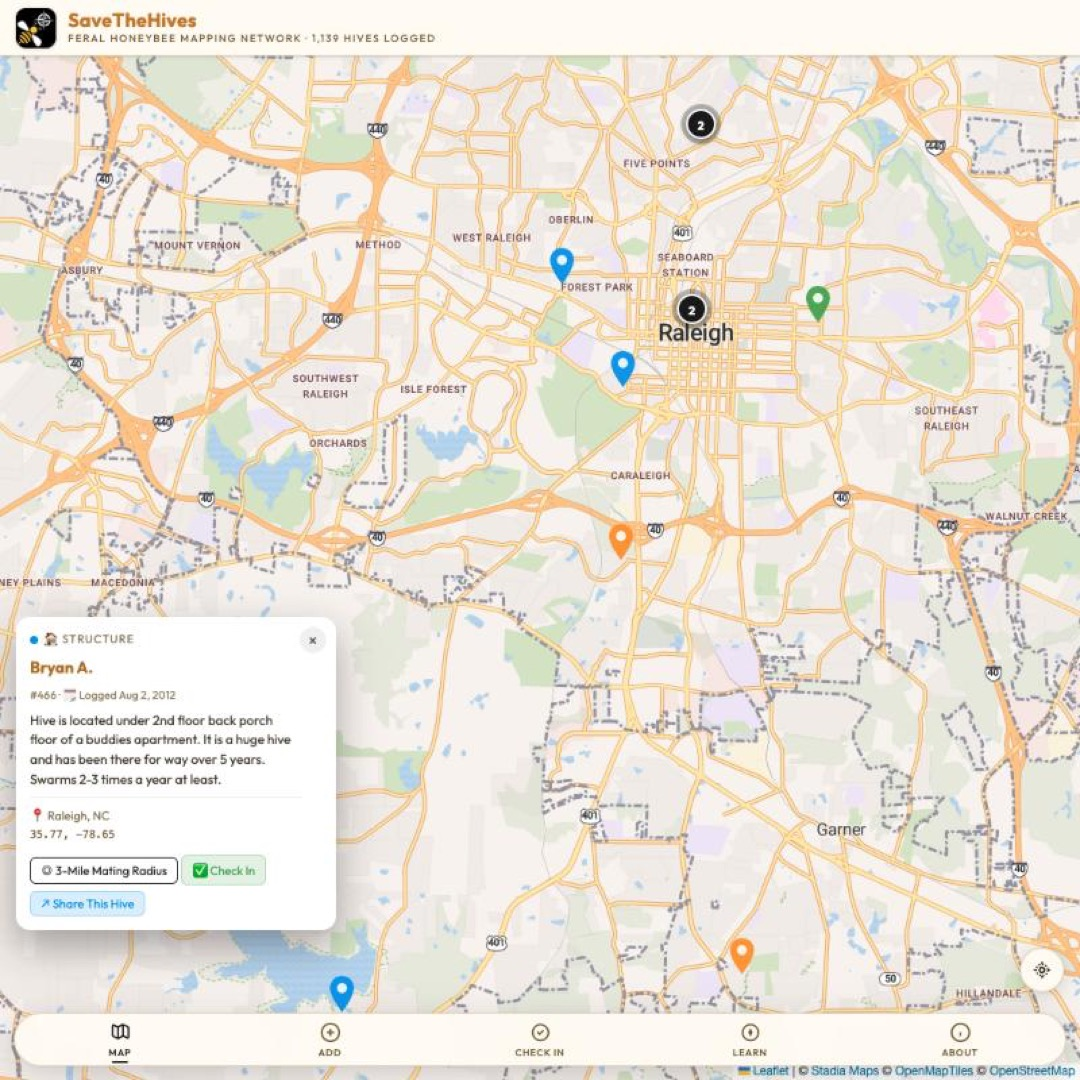
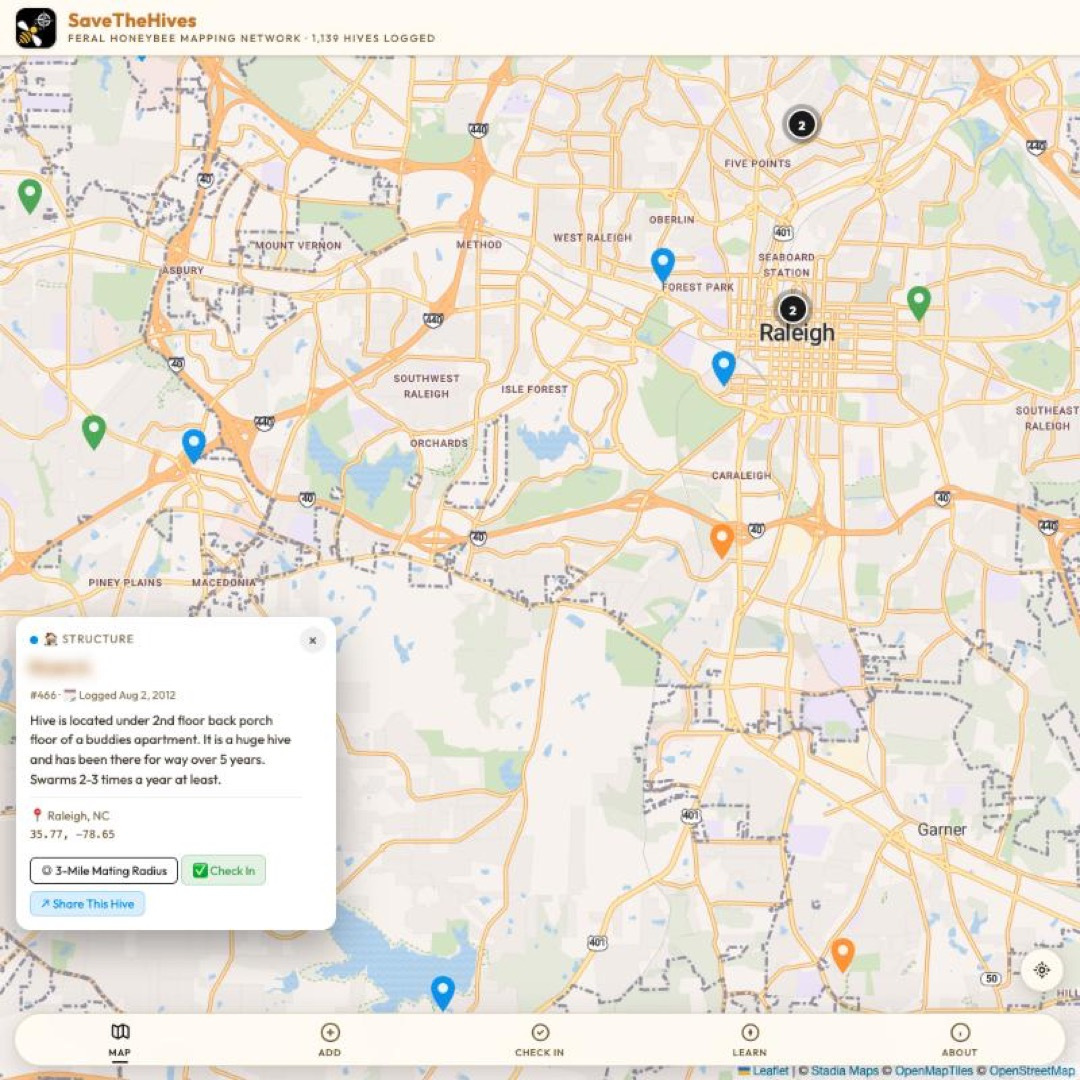
Add location-denied help/retry, blur all submitter names in marketing shots, capture Learn/About
Location: "location access denied" used to be a dead-end toast. Browsers
remember a per-site denial and won't re-prompt until the person changes
it themselves, so there was no way forward without knowing where that
setting lives. Added getLocationHelpSteps() (platform-detected: iOS
Safari, iOS home-screen install, Mac Safari, Mac Chrome, generic
fallback) behind a new "How to enable" button, plus a "Try Again" button
that re-requests permission directly — covers the case where someone
already fixed the setting and came back. Wired into both locateMe() and
openValidate()/Check-In. New #location-help-modal in index.html.

Marketing screenshots: blurred the submitter name in map-near-you (Jan
Weems NCMNS) and map-story-bryan (Bryan A.) — same CSS-blur technique
already used for Patrick Schlemmer's shot — per Ronnie's standing request
to avoid showing any real name. Unblurred versions archived.

Also captured 3 new screens: learn-hub.jpg (Learn tab's hub), about-hub.jpg
(About tab's hub), about-mission.jpg (About → Mission & research). Flagged
in ASSET_INDEX.md: the live Mission & research text lists
hello@savethehives.org as the researcher contact, which was confirmed
unreliable for outreach back on 2026-08-14 — not changed here, out of
scope for this pass.

diff --git a/app/app.js b/app/app.js
@@ -1313,6 +1313,103 @@ function flyToHive(id) {
 // ═══════════════════════════════════════
 // LOCATION
 // ═══════════════════════════════════════
+// 2026-10-14 (Ronnie): "location access denied" used to be a dead end — a
+// toast and nothing else. Browsers remember a denial per-site and won't
+// prompt again until the person changes it themselves in their own
+// settings, so the fix has to tell them exactly where that setting lives.
+// getLocationHelpSteps() picks the right instructions for iOS Safari, an
+// iOS home-screen install, Mac Safari, and Mac Chrome (a generic fallback
+// covers everything else — Android/other desktop browsers).
+function getLocationHelpSteps() {
+  const ua = navigator.userAgent;
+  const isIOS = /iPhone|iPad|iPod/.test(ua);
+  const isStandalone = window.navigator.standalone === true ||
+    window.matchMedia('(display-mode: standalone)').matches;
+  const isMac = /Macintosh/.test(ua) && !isIOS;
+  const isChrome = /Chrome/.test(ua) && !/Edg|OPR/.test(ua);
+  const isSafari = /Safari/.test(ua) && !isChrome;
+
+  if (isIOS && isStandalone) {
+    return `<b>On your iPhone/iPad (saved to your Home Screen):</b><br>
+      Settings → Privacy &amp; Security → Location Services → find
+      <b>SaveTheHives</b> in the list → set it to <b>While Using the App</b>.
+      <br><br>Also make sure Location Services is switched on at the top of
+      that screen.`;
+  }
+  if (isIOS) {
+    return `<b>On your iPhone/iPad:</b><br>
+      Tap the <b>"Aa"</b> icon at the left of the address bar →
+      <b>Website Settings</b> → set <b>Location</b> to <b>Allow</b>, then
+      reload this page.`;
+  }
+  if (isMac && isSafari) {
+    return `<b>On your Mac (Safari):</b><br>
+      Safari menu → <b>Settings</b> → <b>Websites</b> tab → <b>Location</b>
+      → set savethehives.org to <b>Allow</b>.<br><br>Also check
+      System Settings → Privacy &amp; Security → Location Services is on,
+      with Safari checked.`;
+  }
+  if (isMac && isChrome) {
+    return `<b>On your Mac (Chrome):</b><br>
+      Click the lock icon next to the address bar → <b>Site settings</b> →
+      set <b>Location</b> to <b>Allow</b>, then reload.<br><br>Also check
+      System Settings → Privacy &amp; Security → Location Services is on,
+      with Chrome checked.`;
+  }
+  return `Location access for this site is turned off in your browser.
+    Look for a location or lock icon near the address bar, open its site
+    settings, and set Location to <b>Allow</b> — then reload this page.`;
+}
+
+let _locationRetryFn = null;
+function openLocationHelp(retryFn) {
+  _locationRetryFn = retryFn || null;
+  document.getElementById('location-help-steps').innerHTML = getLocationHelpSteps();
+  document.getElementById('location-help-modal').classList.add('open');
+}
+function closeLocationHelp() {
+  document.getElementById('location-help-modal').classList.remove('open');
+}
+function retryLocationFromHelp() {
+  closeLocationHelp();
+  if (_locationRetryFn) _locationRetryFn();
+}
+
+// Two-action toast (plain showToastWithRetry only supports one button) —
+// "How to enable" opens the platform-specific modal above, "Try Again"
+// just re-requests permission directly (covers the person who already
+// fixed the setting in another tab and came back).
+function showLocationDeniedToast(retryFn) {
+  const t = document.getElementById('toast');
+  t.textContent = '';
+  const span = document.createElement('span');
+  span.textContent = 'Location access is off for this site.';
+  const helpBtn = document.createElement('button');
+  helpBtn.type = 'button';
+  helpBtn.textContent = 'How to enable';
+  helpBtn.className = 'toast-retry-btn';
+  helpBtn.onclick = () => {
+    clearTimeout(toastTimer);
+    t.classList.remove('show', 'toast-has-retry');
+    openLocationHelp(retryFn);
+  };
+  const retryBtn = document.createElement('button');
+  retryBtn.type = 'button';
+  retryBtn.textContent = 'Try Again';
+  retryBtn.className = 'toast-retry-btn';
+  retryBtn.onclick = () => {
+    clearTimeout(toastTimer);
+    t.classList.remove('show', 'toast-has-retry');
+    retryFn();
+  };
+  t.appendChild(span);
+  t.appendChild(helpBtn);
+  t.appendChild(retryBtn);
+  t.classList.add('show', 'toast-has-retry');
+  clearTimeout(toastTimer);
+  toastTimer = setTimeout(() => t.classList.remove('show', 'toast-has-retry'), 10000);
+}
+
 function locateMe() {
   if (!navigator.geolocation) { showToast('GPS not available on this device'); return; }
   showToast('Getting location...');
@@ -1321,7 +1418,13 @@ function locateMe() {
       map.setView([pos.coords.latitude, pos.coords.longitude], 12);
       showToast('📍 Centered on your location');
     },
-    () => showToast('GPS access denied — search by ZIP instead'),
+    err => {
+      if (err && err.code === err.PERMISSION_DENIED) {
+        showLocationDeniedToast(() => locateMe());
+      } else {
+        showToast('GPS unavailable — search by ZIP instead');
+      }
+    },
     { timeout: 8000 }
   );
 }
@@ -1370,9 +1473,13 @@ function openValidate() {
   }
   navigator.geolocation.getCurrentPosition(
     pos => runValidateFilter(pos.coords.latitude, pos.coords.longitude),
-    () => {
-      showToast('Location access denied — showing hives near the current map view instead');
+    err => {
       runValidateFilter(map.getCenter().lat, map.getCenter().lng);
+      if (err && err.code === err.PERMISSION_DENIED) {
+        showLocationDeniedToast(() => openValidate());
+      } else {
+        showToast('Location unavailable — showing hives near the current map view instead');
+      }
     },
     { timeout: 8000 }
   );

diff --git a/app/index.html b/app/index.html
@@ -1209,6 +1209,27 @@
   </div>
 </div>
 
+<!-- ── LOCATION HELP MODAL (2026-10-14) ── reuses .modal-overlay/.modal-sheet.
+     Content is filled in by getLocationHelpSteps() (app.js), which picks
+     platform-specific instructions (iOS Safari, iOS home-screen install,
+     Mac Safari, Mac Chrome, generic fallback) since the right setting to
+     change lives in a different place on each. -->
+<div class="modal-overlay" id="location-help-modal" onclick="closeModal(event,'location-help-modal')">
+  <div class="modal-sheet">
+    <div class="modal-handle"></div>
+    <div class="modal-title">📍 Turn On Location</div>
+    <div id="location-help-steps" style="font-size:0.85rem;color:var(--text-muted);line-height:1.6;margin-bottom:14px;"></div>
+    <div class="modal-sticky-footer">
+      <button class="btn" style="width:100%;padding:12px;font-size:1rem;" onclick="retryLocationFromHelp()">
+        Try Again
+      </button>
+      <button class="btn btn-outline" style="width:100%;padding:12px;font-size:1rem;" onclick="closeLocationHelp()">
+        Close
+      </button>
+    </div>
+  </div>
+</div>
+
 <!-- Filter drawer (v2.3) removed 2026-10-11 — once the Hive Type chips
      moved into the always-visible #type-filter-bar, this popup only had
      two things left (notes search, radius toggle), both now folded into

diff --git a/app/sw.js b/app/sw.js
@@ -4,7 +4,7 @@
 // Bump CACHE_VERSION on any deploy that changes a cached file (styles.css,
 // app.js, pathfinder.js, icons, images, etc.) so returning visitors pick up
 // the new version instead of continuing to serve the old cached one.
-const CACHE_VERSION = 'v2.14.3'; // Fixed hive-detail flyTo centering the marker directly under its own panel (app.js, 2026-10-14) — bumping per the standing rule above.
+const CACHE_VERSION = 'v2.14.4'; // Added location-denied help modal + retry action (app.js/index.html, 2026-10-14) — bumping per the standing rule above.
 const SHELL_CACHE = `savethehives-shell-${CACHE_VERSION}`;
 const TILE_CACHE = `savethehives-tiles-${CACHE_VERSION}`;
 const TILE_CACHE_MAX_ENTRIES = 200;

diff --git a/ASSET_INDEX.md b/ASSET_INDEX.md
@@ -56,8 +56,11 @@ These all stay exactly where they are. They also double as Facebook post images 
 | File (new path) | What it is | FB crop | Last used in FB post |
 |---|---|---|---|
 | `marketing/screenshots/map-overview.jpg` | Post-redesign (Oct 11 2026) map hero: new OSM Bright basemap, white filter chips, search bar, black clusters, continental zoom | `marketing/facebook/map-overview_fb-square-1080x1080.jpg` / `_fb-portrait-1080x1350.jpg` | Not yet used — captured Oct 14 2026 |
-| `marketing/screenshots/map-near-you.jpg` | The REAL "Check In" flow, not a staged map view: the "N hives within about an hour of you" banner, the dashed ~50-mile radius, and the nearest hive's story auto-opened (#467, Jan Weems NCMNS — a walnut-tree hive tied to the NC Museum of Natural Sciences). Replaces an earlier staged version (archived) once the overzoom bug below was fixed | `marketing/facebook/map-near-you_fb-square-1080x1080.jpg` / `_fb-portrait-1080x1350.jpg` | Not yet used — recaptured Oct 14 2026 |
-| `marketing/screenshots/map-story-bryan.jpg` | A single real hive's detail panel open (#466, Bryan A., Raleigh NC — huge hive under a back porch, swarms 2-3x/year) — narrative/story framing instead of a flat pin field. Replaces the earlier Charles E. Wallace version (archived — its description mentioned a beekeeper trying to remove the hive, which Ronnie didn't want to lead with) | `marketing/facebook/map-story-bryan_fb-square-1080x1080.jpg` / `_fb-portrait-1080x1350.jpg` | Not yet used — recaptured Oct 14 2026 |
+| `marketing/screenshots/map-near-you.jpg` | The REAL "Check In" flow, not a staged map view: the "N hives within about an hour of you" banner, the dashed ~50-mile radius, and the nearest hive's story auto-opened (#467, Jan Weems NCMNS — a walnut-tree hive tied to the NC Museum of Natural Sciences). Submitter name CSS-blurred (Oct 14 2026, standing privacy rule — see below) | `marketing/facebook/map-near-you_fb-square-1080x1080.jpg` / `_fb-portrait-1080x1350.jpg` | Not yet used — recaptured Oct 14 2026 |
+| `marketing/screenshots/map-story-bryan.jpg` | A single real hive's detail panel open (#466, Bryan A., Raleigh NC — huge hive under a back porch, swarms 2-3x/year) — narrative/story framing instead of a flat pin field. Submitter name CSS-blurred (Oct 14 2026, standing privacy rule — see below) | `marketing/facebook/map-story-bryan_fb-square-1080x1080.jpg` / `_fb-portrait-1080x1350.jpg` | Not yet used — recaptured Oct 14 2026 |
+| `marketing/screenshots/learn-hub.jpg` | The Learn tab's hub screen — hero illustration, "Could there be a wild bee colony within a mile of you right now?", the 4 audience-path cards, start of the module list | `marketing/facebook/learn-hub_fb-square-1080x1080.jpg` / `_fb-portrait-1080x1350.jpg` | Not yet used — captured Oct 14 2026 |
+| `marketing/screenshots/about-hub.jpg` | The About tab's hub screen — App/Map reference/Community/About the project card groups | `marketing/facebook/about-hub_fb-square-1080x1080.jpg` / `_fb-portrait-1080x1350.jpg` | Not yet used — captured Oct 14 2026 |
+| `marketing/screenshots/about-mission.jpg` | About → Mission & research sub-panel — the project's own mission statement, "Genetic Goldmine" framing, Dr. David Tarpy credibility line. **Note: this live page text lists `hello@savethehives.org` as the researcher contact — flagged to Ronnie, since that address was confirmed Aug 14 2026 as unreliable for outreach purposes; not changed here, outside this capture's scope** | `marketing/facebook/about-mission_fb-square-1080x1080.jpg` / `_fb-portrait-1080x1350.jpg` | Not yet used — captured Oct 14 2026 |
 | `marketing/screenshots/map-story-patrick.jpg` | A second hive-story shot (#19, San Francisco Zoo — 10+ year colony in the Pachyderm building's hollow wall, Active status, recent check-in shown). Submitter name (Patrick Schlemmer) is CSS-blurred in the screenshot at Ronnie's request | `marketing/facebook/map-story-patrick_fb-square-1080x1080.jpg` / `_fb-portrait-1080x1350.jpg` | Not yet used — recaptured Oct 14 2026 |
 | `marketing/screenshots/map-mating-radius.jpg` | Mating-radius circles toggled on across ~12 Triangle-area hives, overlapping rings — visual for the Genetic Goldmine/connectivity science angle | `marketing/facebook/map-mating-radius_fb-square-1080x1080.jpg` / `_fb-portrait-1080x1350.jpg` | Not yet used — captured Oct 14 2026 |
 | `marketing/screenshots/map-filter-live-tree.jpg` | Live Tree filter chip active (green, selected state), reduced pin set + live count — demonstrates the new multi-select filter UI | `marketing/facebook/map-filter-live-tree_fb-square-1080x1080.jpg` (square only) | Not yet used — captured Oct 14 2026 |
@@ -88,6 +91,9 @@ Every asset below is a pre-cropped square (1080x1080) + portrait (1080x1350) pai
 | `map-overview.jpg` | `map-overview_fb-*` | Not yet used |
 | `map-near-you.jpg` | `map-near-you_fb-*` | Not yet used |
 | `map-story-bryan.jpg` | `map-story-bryan_fb-*` | Not yet used |
+| `learn-hub.jpg` | `learn-hub_fb-*` | Not yet used |
+| `about-hub.jpg` | `about-hub_fb-*` | Not yet used |
+| `about-mission.jpg` | `about-mission_fb-*` | Not yet used |
 | `map-story-patrick.jpg` | `map-story-patrick_fb-*` | Not yet used |
 | `map-mating-radius.jpg` | `map-mating-radius_fb-*` | Not yet used |
 | `map-filter-live-tree.jpg` | `map-filter-live-tree_fb-square-1080x1080.jpg` only | Not yet used |
@@ -111,6 +117,7 @@ replaced by the `map-*` rows above:
 | `map-near-you-synthetic.jpg` / `_fb-square-1080x1080.jpg` / `_fb-portrait-1080x1350.jpg` | First "near you" shot — a manually staged map.setView() at the Triangle, no real UI flow. Archived Oct 14 2026 same day as capture, replaced by a screenshot of the actual Check-In/Validate flow once its overzoom bug (see `app/app.js` `showHiveNotePanel`/`runValidateFilter`, fixed same day) stopped it from landing on the right view on its own |
 | `map-hive-story.jpg` / `map-hive-story_fb-square-1080x1080.jpg` / `_fb-portrait-1080x1350.jpg` | First hive-story shot (Charles E. Wallace, #474) — archived Oct 14 2026, same day as capture, because Ronnie didn't want to lead with its "a local beekeeper tried to use a vaccum contraption to get them out" line. Replaced by `map-story-bryan.jpg` and `map-story-patrick.jpg` above |
 | `map-story-bryan-no-pin.jpg` / `map-story-patrick-no-pin.jpg` (+ FB crops) | First versions of the Bryan/Patrick story shots — Ronnie noticed the hive's own marker pin wasn't visible on the map in either one. Root cause: `showHiveNotePanel()`'s flyTo centered the hive's coordinates exactly under `#hive-note-panel` itself (a fixed card docked over the lower-left of the map), so the pin landed directly behind its own panel. Fixed in `app/app.js` same day (now biases the fly-to target up-and-right, clear of the panel, sized off the panel's actual rendered box) and these were recaptured against the fix |
+| `map-near-you-unblurred.jpg` / `map-story-bryan-unblurred.jpg` (+ FB crops) | Versions of these two with the real submitter's name visible in the hive panel — archived Oct 14 2026, same day as capture, per Ronnie's standing request to blur real names in any marketing screenshot. Replaced by the versions above, which CSS-blur `.popup-name` before the screenshot is taken (same technique already used for Patrick Schlemmer's shot) |
 
 ## Known gaps as of this reorg (Sep 26 2026)
 
